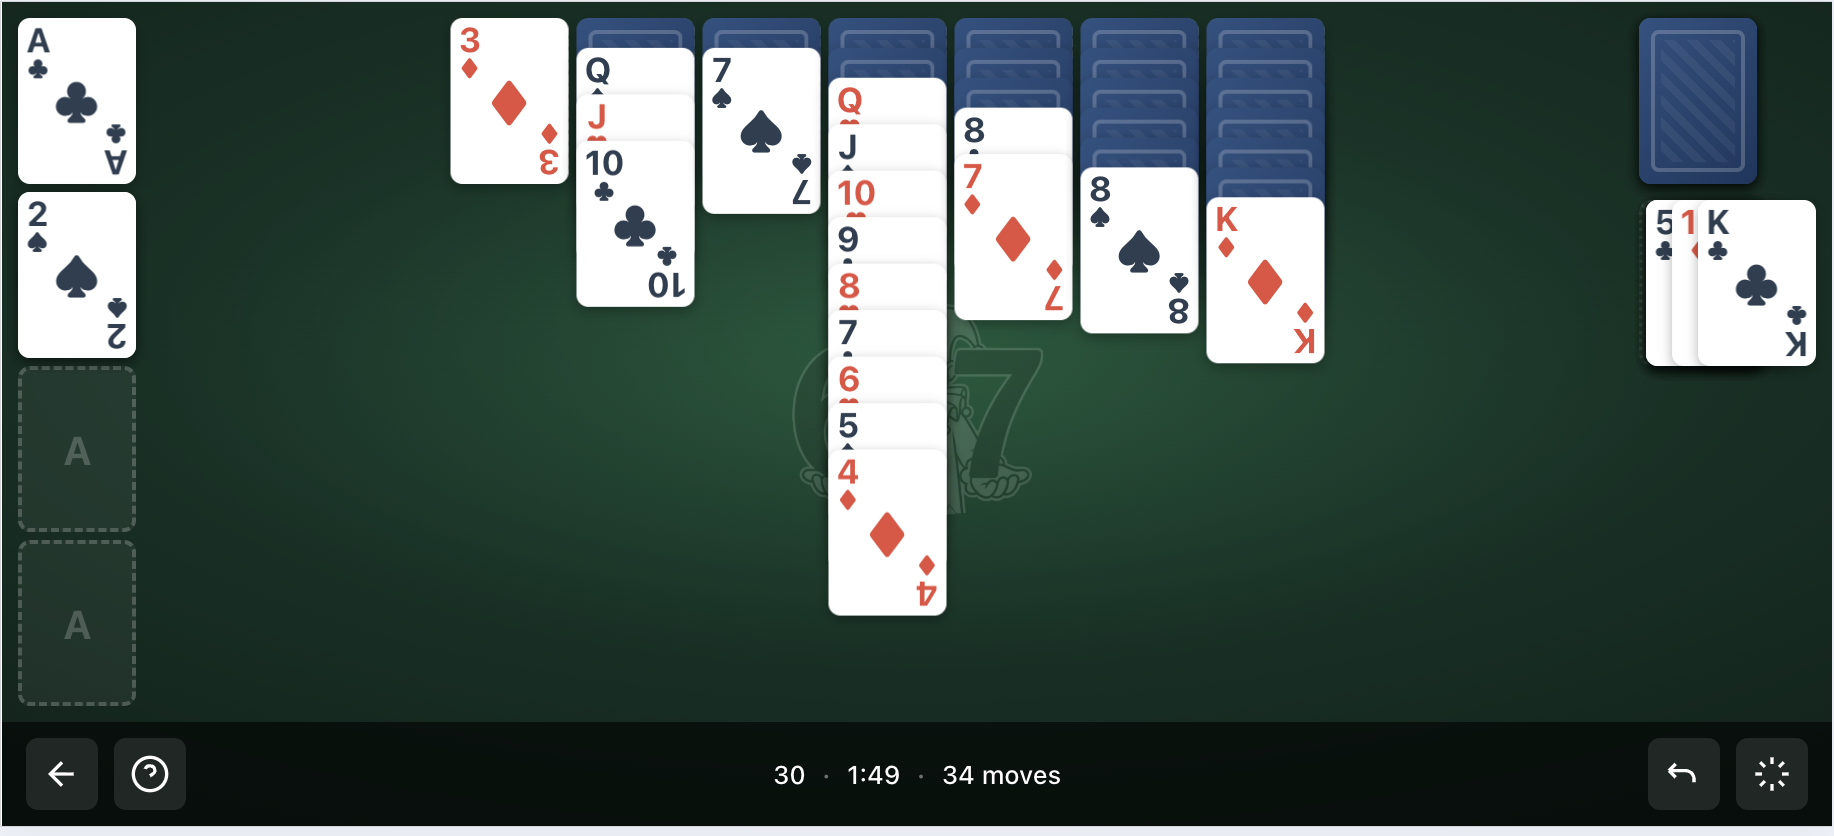
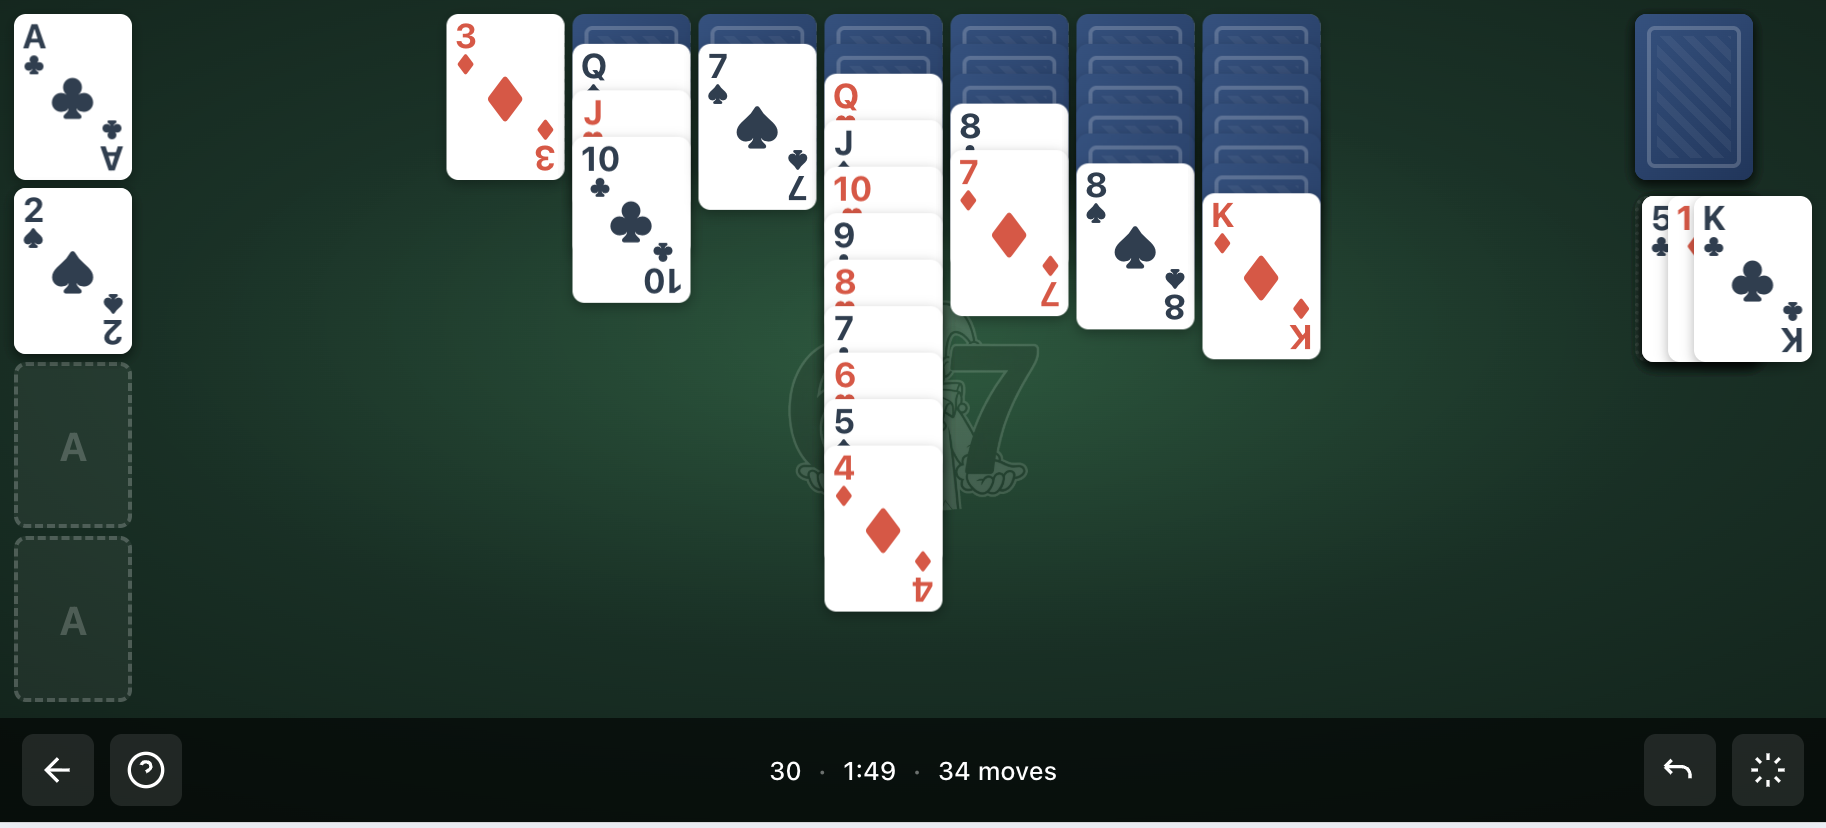
Clean up game screenshots: crop edges, fix aspect ratio
- Cropped 4px from all edges to remove artifacts
- Changed game card image from fixed 180px to 16:7 aspect ratio

[render skip]

diff --git a/packages/client/src/views/LandingView.vue b/packages/client/src/views/LandingView.vue
@@ -455,7 +455,7 @@ section {
 }
 
 .game-image {
-  height: 180px;
+  aspect-ratio: 16 / 7; // ~2.28:1, close to screenshot ratio of ~2.23:1
   overflow: hidden;
   background: linear-gradient(135deg, rgba($brand-green, 0.3), rgba($brand-green-dark, 0.5));
   
